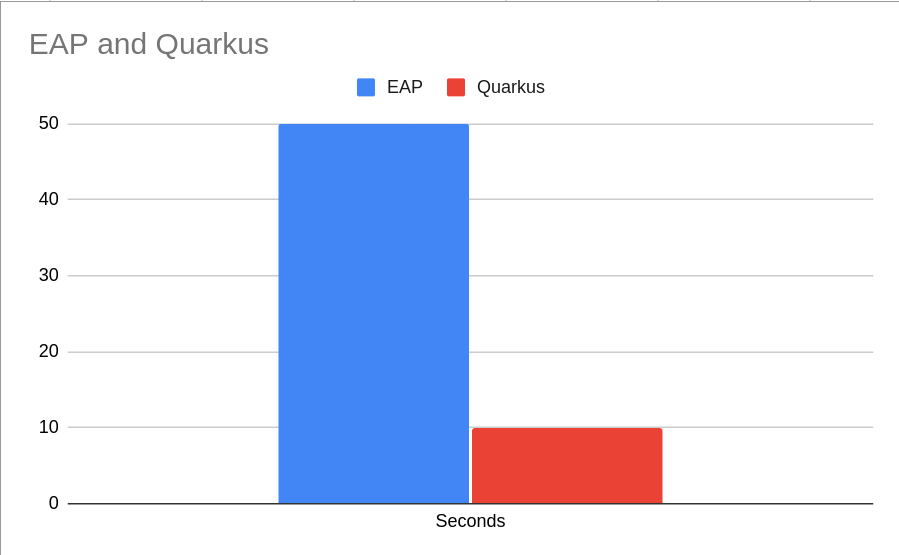
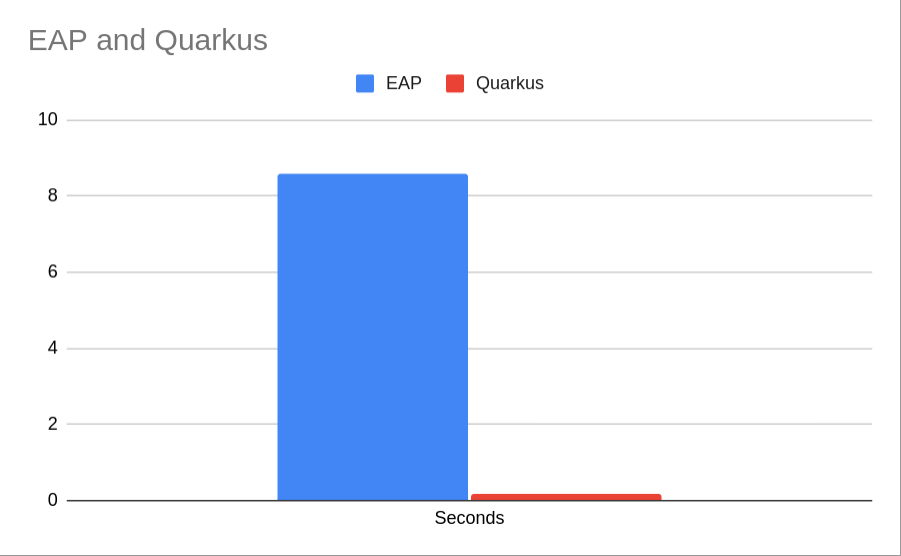
Update to starup times

diff --git a/coolstore-ui/server.js b/coolstore-ui/server.js
@@ -1,4 +1,5 @@
 //  OpenShift sample Node application
+console.log("Start time " + new Date().getTime());
 var express = require('express'),
     http = require('http'),
     request = require('request'),
@@ -47,3 +48,4 @@ http.createServer(app).listen(port);
 console.log('HTTP Server running on http://%s:%s', ip, port);
 
 module.exports = app;
+console.log("End time " + new Date().getTime());

diff --git a/README.md b/README.md
@@ -75,17 +75,17 @@ Click on the "play" button to run the tests.
 ## Results
 
 ### Boot time	
-Measuring time to ready to accept connections
+Measuring time as reported in the app logs startup time.
 
 Monolith:
-* JBoss EAP 8 application: 50 seconds
+* JBoss EAP 8 application: 8.6 seconds
 
 Microservices:
-* Cart: 2 seconds
-* Catalog: 10 seconds
-* Coolstore-ui: 2 seconds
-* Inventory: 10 seconds
-* Order: 2 seconds
+* Cart: 0.195 seconds
+* Catalog: 0.075 seconds
+* Coolstore-ui: 0.025 seconds
+* Inventory: 0.076 seconds
+* Order: 0.032 seconds
 
 ![Boot time](./assets/images/boot-time.png "Boot time")
 
